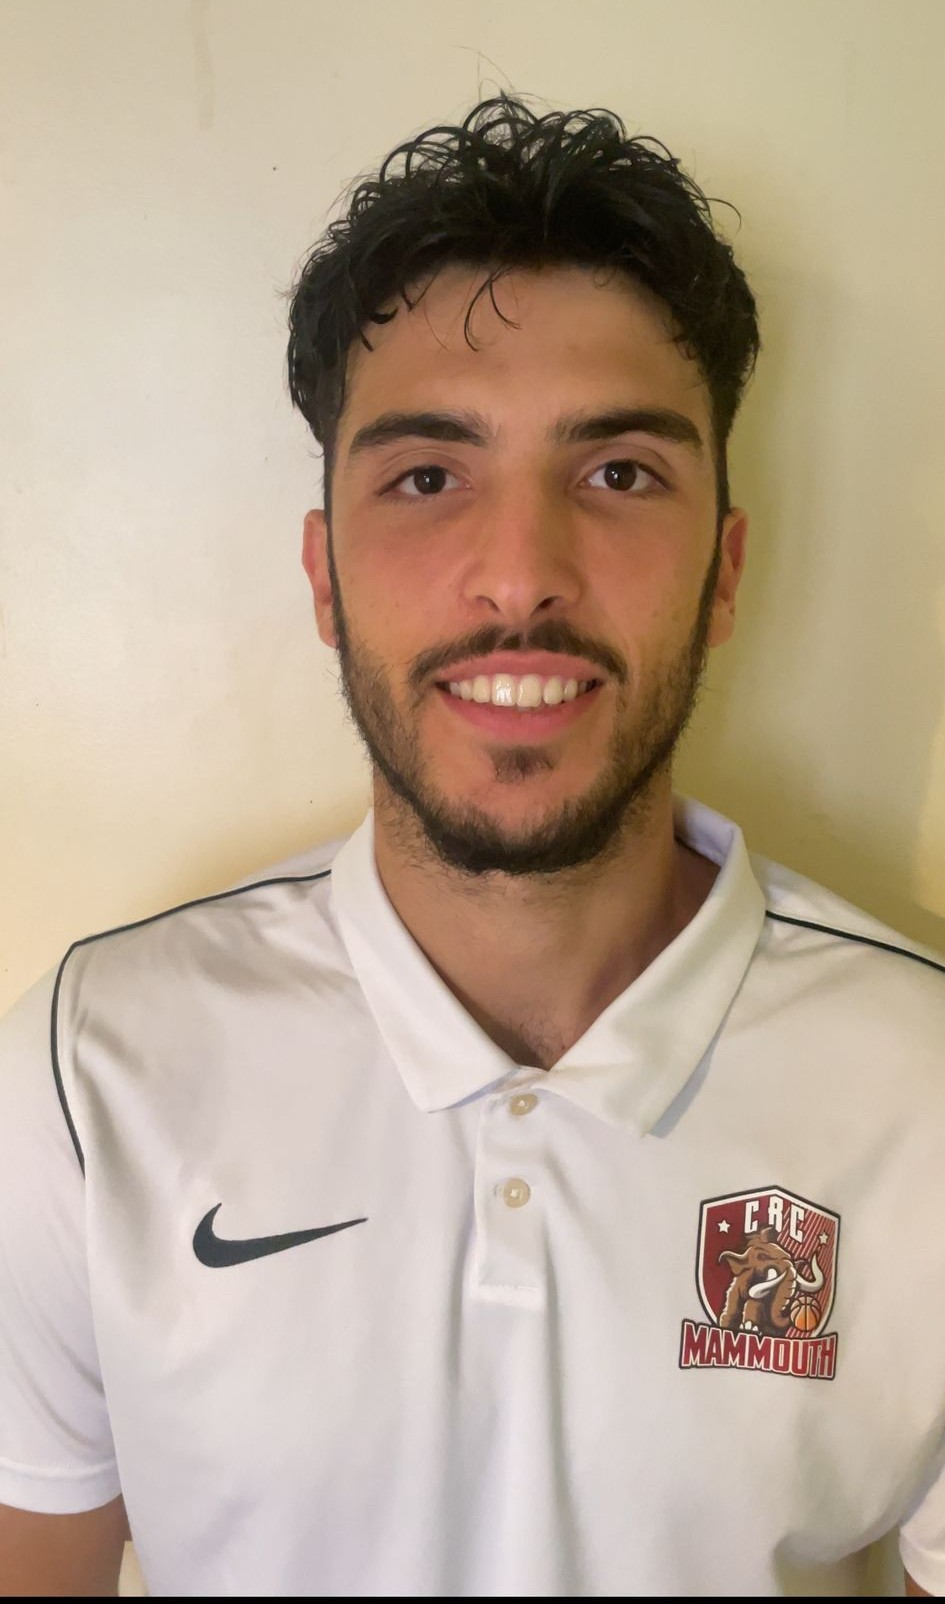
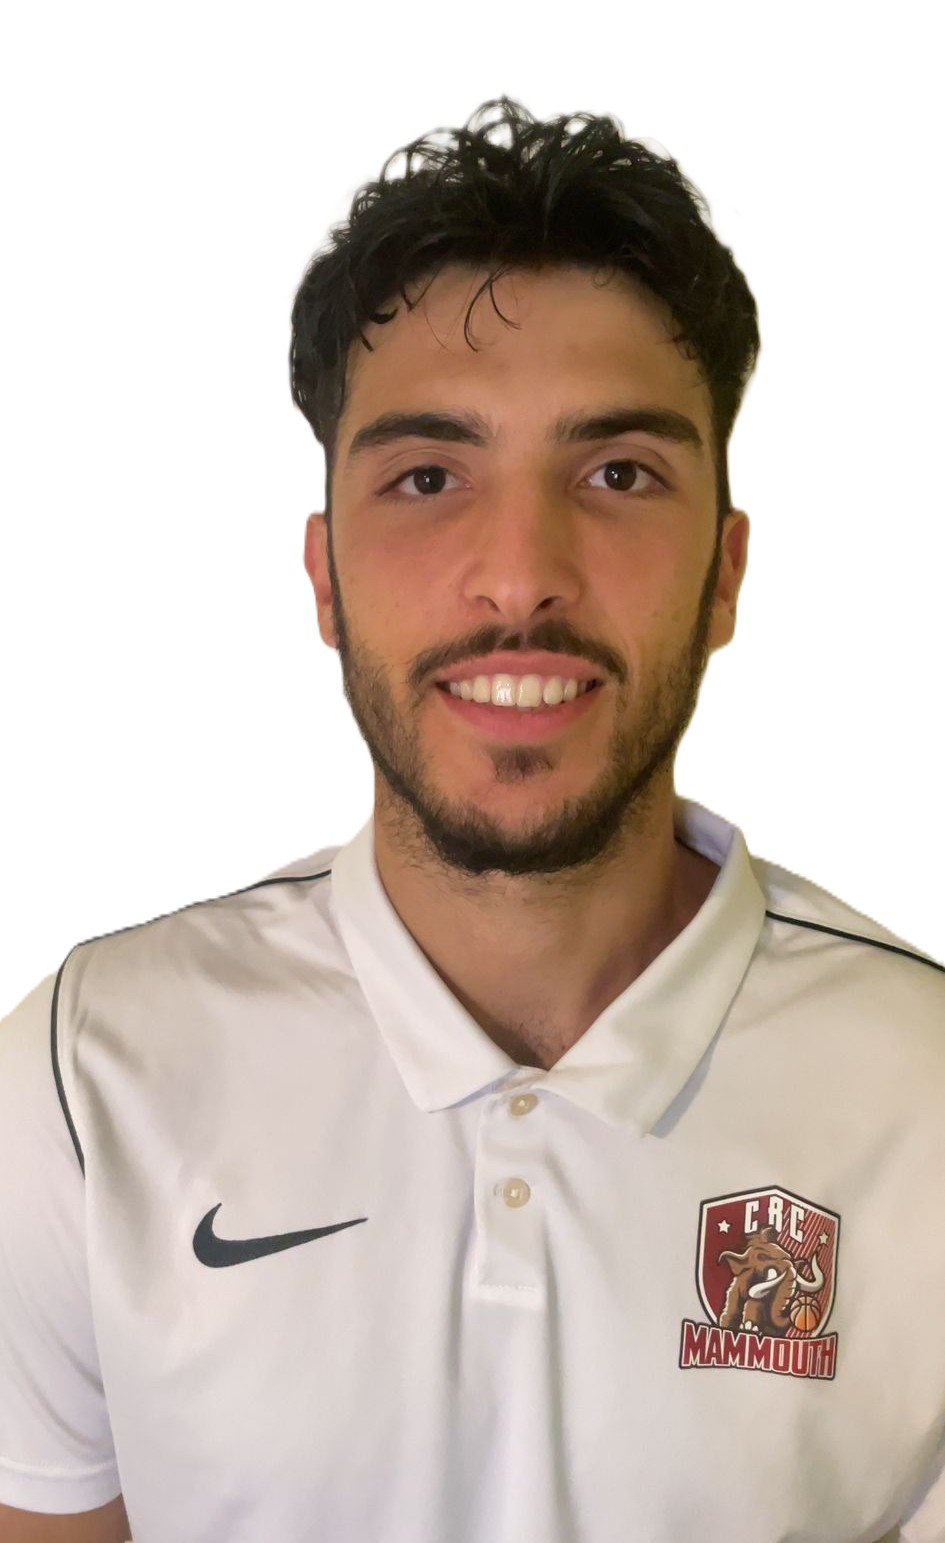
maj config

diff --git a/src/config.js b/src/config.js
@@ -1,5 +1,3 @@
-export const API_URL = 'https://api.craubc.fr/';
-export const API_VERSION = 'v1';
-export const API_ENDPOINT = `${API_URL}/${API_VERSION}`;
-export const API_TIMEOUT = 5000; // Timeout in milliseconds     
-export const STATIC_URL = 'https://craubc.fr/back'; // sans /api
+export const API_URL = 'https://cbc-back2.netlify.app/api';
+export const API_ENDPOINT = API_URL;
+export const API_TIMEOUT = 5000;
